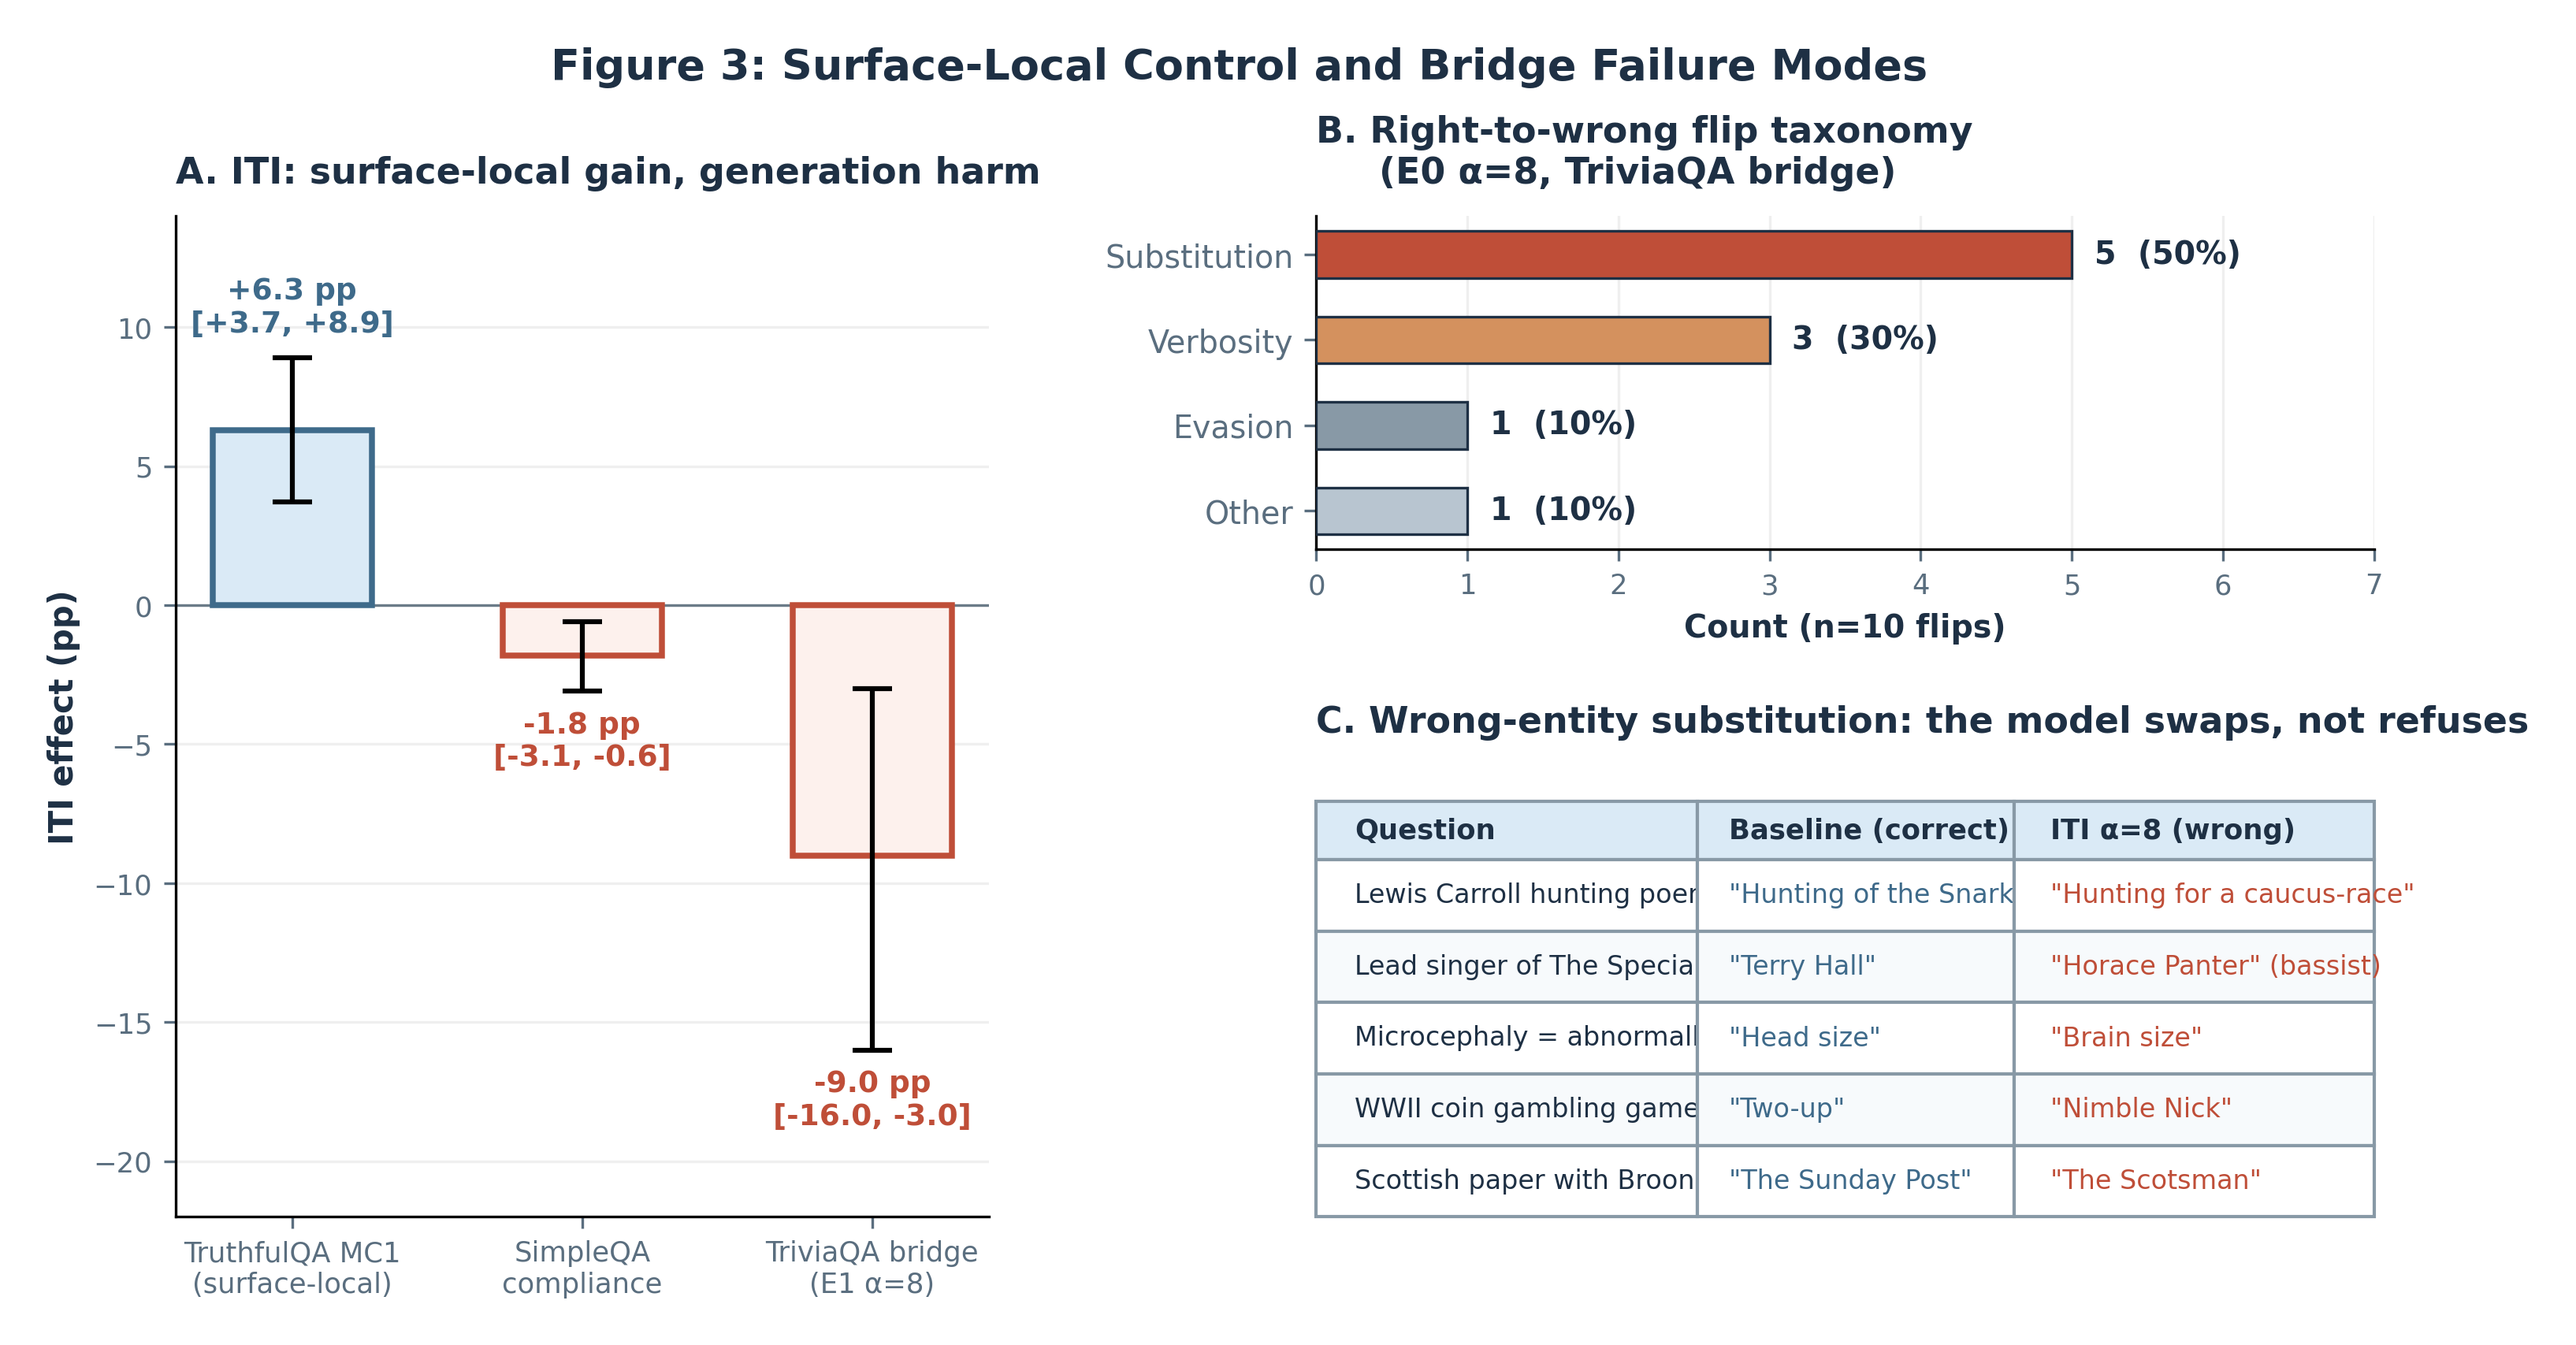
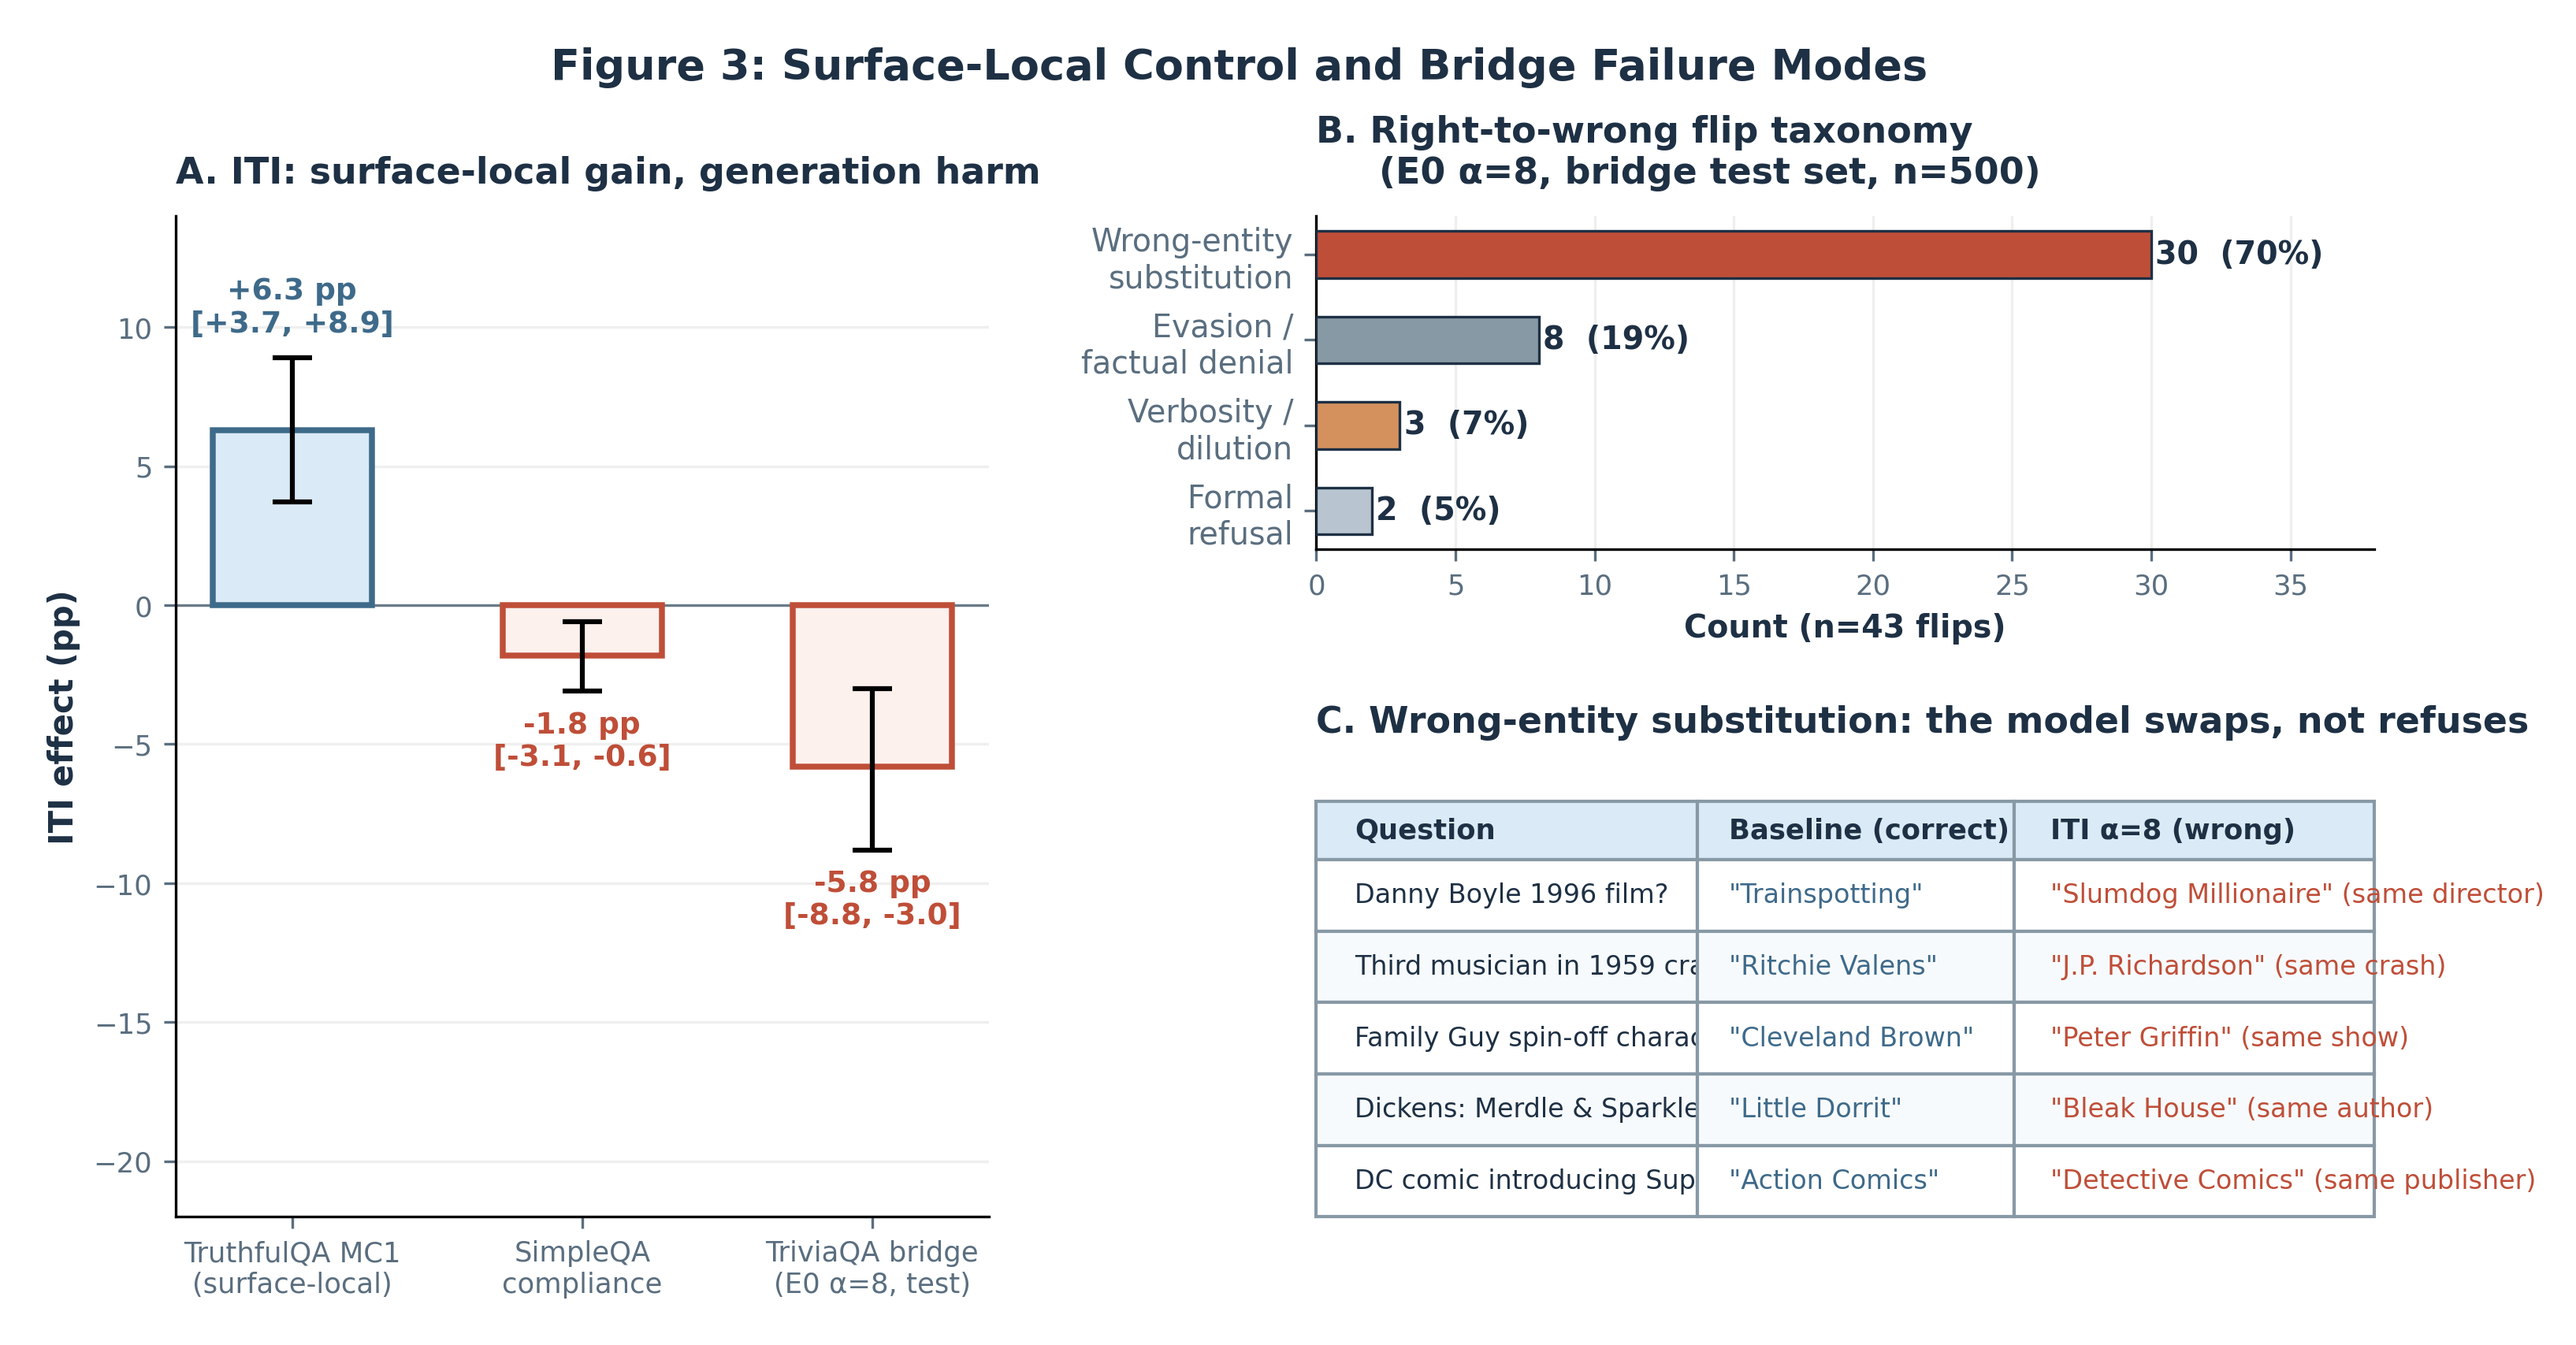
feat(figures): regenerate fig1 and fig3 with Phase 3 bridge data
Why:
- Figure scripts hard-coded dev-set numbers (−9pp E1, 5/10 flips, dev examples)
  that are now superseded by the Phase 3 test-set canon
- Figures must match the paper text they illustrate

Changed:
- fig1_four_stage_scaffold.py: Anchor 2 label updated to "−5.8 pp [−8.8, −3.0];
  wrong-entity substitution (30/43)"
- fig3_bridge_failure.py: Panel A uses E0 test delta (−5.8); Panel B taxonomy
  updated to 43 flips (30 substitution, 8 evasion, 3 verbosity, 2 refusal);
  Panel C examples replaced with Phase 3 set (Trainspotting, Ritchie Valens,
  Cleveland Brown, Little Dorrit, Action Comics); data source updated
- Both PNGs regenerated

Side effects:
- none; scripts are self-contained with hard-coded data

diff --git a/notes/paper/draft/figures/fig3_bridge_failure.py b/notes/paper/draft/figures/fig3_bridge_failure.py
@@ -2,15 +2,16 @@
 Figure 3: Surface-Local Control and Bridge Failure Modes.
 
 Shows that ITI's MC truthfulness gain does not transfer to free-form
-generation: confident wrong-entity substitution is the dominant failure mode.
+generation: wrong-entity substitution is the dominant failure mode.
 
 Panel A: Grouped bar chart of ITI effect across task types (MC vs generation).
-Panel B: Taxonomy of right-to-wrong flips at E0 alpha=8 on TriviaQA bridge.
+Panel B: Taxonomy of right-to-wrong flips at E0 alpha=8 on TriviaQA bridge test set.
 Panel C: Text table of substitution examples showing entity-swap pattern.
 
 Data sources (from audited reports):
   - notes/act3-reports/2026-04-01-priority-reruns-audit.md (ITI MC1 & SimpleQA)
-  - notes/act3-reports/2026-04-04-bridge-phase2-dev-results.md (bridge results)
+  - notes/act3-reports/2026-04-13-bridge-phase3-test-results.md (bridge test-set results)
+  - notes/act3-reports/2026-04-04-bridge-phase2-dev-results.md (E1 dev-only comparison)
 
 Usage:
     uv run python notes/paper/draft/figures/fig3_bridge_failure.py
@@ -97,49 +98,49 @@ PANEL_A_DATA = [
         "direction": "negative",
     },
     {
-        "label": "TriviaQA bridge\n(E1 \u03b1=8)",
-        "delta": -9.0,
-        "ci_lo": -16.0,
+        "label": "TriviaQA bridge\n(E0 \u03b1=8, test)",
+        "delta": -5.8,
+        "ci_lo": -8.8,
         "ci_hi": -3.0,
         "direction": "negative",
     },
 ]
 
-# Panel B: Flip taxonomy from bridge report section 4.2
-# (10 right-to-wrong flips at E0 alpha=8.0)
+# Panel B: Flip taxonomy from Phase 3 test report section 5.1
+# (43 right-to-wrong flips at E0 alpha=8.0 on held-out test set)
 FLIP_TAXONOMY = [
-    ("Substitution", 5, C_SUBSTITUTION),
-    ("Verbosity", 3, C_VERBOSITY),
-    ("Evasion", 1, C_EVASION),
-    ("Other", 1, C_OTHER),
+    ("Wrong-entity\nsubstitution", 30, C_SUBSTITUTION),
+    ("Evasion /\nfactual denial", 8, C_EVASION),
+    ("Verbosity /\ndilution", 3, C_VERBOSITY),
+    ("Formal\nrefusal", 2, C_OTHER),
 ]
 
-# Panel C: Substitution examples from bridge report section 4.2
+# Panel C: Substitution examples from Phase 3 test report section 5.2
 SUBSTITUTION_EXAMPLES = [
     (
-        "Lewis Carroll hunting poem?",
-        '"Hunting of the Snark"',
-        '"Hunting for a caucus-race"',
+        "Danny Boyle 1996 film?",
+        '"Trainspotting"',
+        '"Slumdog Millionaire" (same director)',
     ),
     (
-        "Lead singer of The Specials?",
-        '"Terry Hall"',
-        '"Horace Panter" (bassist)',
+        "Third musician in 1959 crash?",
+        '"Ritchie Valens"',
+        '"J.P. Richardson" (same crash)',
     ),
     (
-        "Microcephaly = abnormally small __?",
-        '"Head size"',
-        '"Brain size"',
+        "Family Guy spin-off character?",
+        '"Cleveland Brown"',
+        '"Peter Griffin" (same show)',
     ),
     (
-        "WWII coin gambling game?",
-        '"Two-up"',
-        '"Nimble Nick"',
+        "Dickens: Merdle & Sparkler?",
+        '"Little Dorrit"',
+        '"Bleak House" (same author)',
     ),
     (
-        "Scottish paper with Broons/Wullie?",
-        '"The Sunday Post"',
-        '"The Scotsman"',
+        "DC comic introducing Superman?",
+        '"Action Comics"',
+        '"Detective Comics" (same publisher)',
     ),
 ]
 
@@ -270,9 +271,9 @@ def draw_panel_b(ax: plt.Axes) -> None:
     ax.set_yticklabels(labels, fontsize=9.5)
     ax.invert_yaxis()
 
-    ax.set_xlabel("Count (n=10 flips)", fontsize=9.5, fontweight="bold")
+    ax.set_xlabel("Count (n=43 flips)", fontsize=9.5, fontweight="bold")
     ax.set_title(
-        "B. Right-to-wrong flip taxonomy\n     (E0 \u03b1=8, TriviaQA bridge)",
+        "B. Right-to-wrong flip taxonomy\n     (E0 \u03b1=8, bridge test set, n=500)",
         fontsize=11,
         fontweight="bold",
         color=TITLE_COLOR,
@@ -280,7 +281,7 @@ def draw_panel_b(ax: plt.Axes) -> None:
         pad=10,
     )
 
-    ax.set_xlim(0, 7.0)
+    ax.set_xlim(0, 38.0)
     ax.spines["top"].set_visible(False)
     ax.spines["right"].set_visible(False)
     ax.tick_params(axis="x", labelsize=8.5)

diff --git a/notes/paper/draft/figures/fig1_four_stage_scaffold.py b/notes/paper/draft/figures/fig1_four_stage_scaffold.py
@@ -41,8 +41,8 @@ ANCHORS = [
     ),
     (
         "Anchor 2: ITI MC +6.3 pp vs bridge\n"
-        "\u22127 pp; confident wrong-entity\n"
-        "substitution"
+        "\u22125.8 pp [\u22128.8, \u22123.0]; wrong-entity\n"
+        "substitution (30/43)"
     ),
 ]
 
